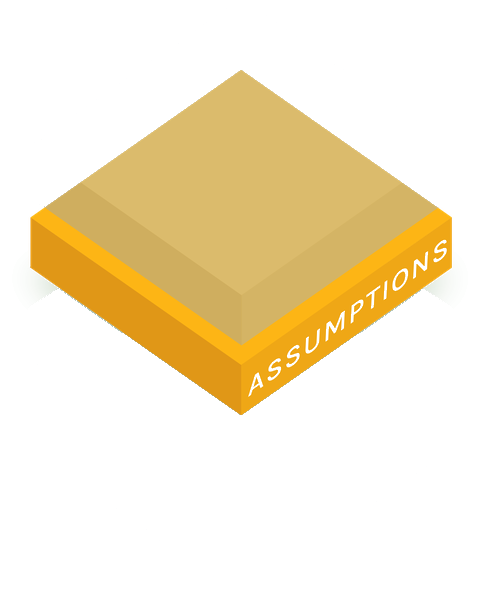
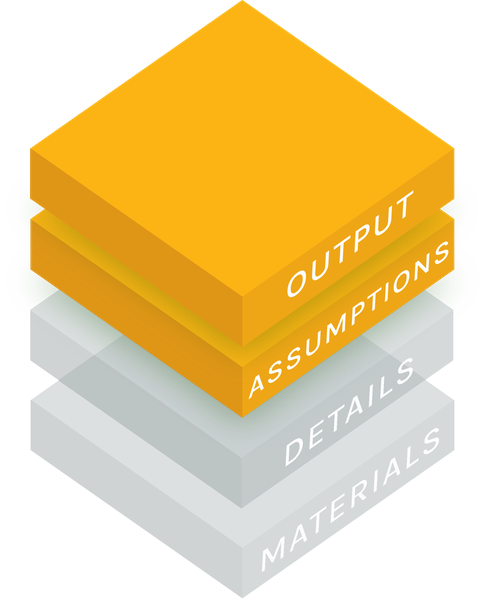
Landing page: use the real output+assumptions asset; deck: fix the overview link
The Explorer card's two-layer icon was a hand-composited overlay of two
full-stack images with their grey ghost layers masked out; replace it
with the user's own combined output+assumptions asset and drop the
now-unused intermediate PNGs.

The deck's persistent "overview" link was position:fixed at a flat
viewport offset, which put it in the letterboxing outside the slide's
own box whenever the window wasn't exactly the deck's aspect ratio.
remark.js scales every .remark-slide-scaler identically to fit the
viewport, so read that shared scaler's on-screen rect at load and on
resize, and offset from it instead, keeping the link inside the
visible slide regardless of window size.

Claude-Session: https://claude.ai/code/session_01BKvBiwNftrGxW1NxdeEXK1

diff --git a/slides/slides.html b/slides/slides.html
@@ -18,14 +18,17 @@
          "present" throughout: that counter isn't per-slide markup either, it's a single
          element remark repositions/relabels on each transition. A real <a> can't be done
          that way (remark owns that element), so this attaches one plain, position:fixed
-         link straight to <body>, outside every .remark-slide-container, which has the
-         same visual effect: it never moves as slides change because it was never part of
-         any slide to begin with. Colors match this deck's existing .nav-btn buttons. -->
+         link straight to <body>, outside every .remark-slide-container. It used to sit at
+         a fixed viewport offset (top:8px/left:10px), which put it in the grey letterboxing
+         outside the slide's own box whenever the browser window wasn't exactly the deck's
+         aspect ratio: remark scales every .remark-slide-scaler identically to fit the
+         current viewport (same transform on all 80 of them, since they share one ratio),
+         so this now reads that shared scaler's on-screen rect and offsets from IT instead,
+         landing the link inside the visible slide regardless of window size. Colors match
+         this deck's existing .nav-btn buttons. -->
     <style>
       .site-footer-link {
         position: fixed;
-        top: 8px;
-        left: 10px;
         z-index: 200;
         font-family: -apple-system, BlinkMacSystemFont, "Segoe UI", sans-serif;
         font-size: 11px;
@@ -44,6 +47,19 @@
       a.className = "site-footer-link";
       a.textContent = "← overview";
       document.body.appendChild(a);
+
+      function positionLink() {
+        var scaler = document.querySelector(".remark-slide-scaler");
+        if (!scaler) return;
+        var rect = scaler.getBoundingClientRect();
+        a.style.top = (rect.top + 8) + "px";
+        a.style.left = (rect.left + 10) + "px";
+      }
+      positionLink();
+      window.addEventListener("resize", positionLink);
+      if (window.slideshow && typeof window.slideshow.on === "function") {
+        window.slideshow.on("afterShowSlide", positionLink);
+      }
     });
     </script>
   </head>

diff --git a/slides/mathjax-config.html b/slides/mathjax-config.html
@@ -10,14 +10,17 @@ MathJax.Hub.Config({
      "present" throughout: that counter isn't per-slide markup either, it's a single
      element remark repositions/relabels on each transition. A real <a> can't be done
      that way (remark owns that element), so this attaches one plain, position:fixed
-     link straight to <body>, outside every .remark-slide-container, which has the
-     same visual effect: it never moves as slides change because it was never part of
-     any slide to begin with. Colors match this deck's existing .nav-btn buttons. -->
+     link straight to <body>, outside every .remark-slide-container. It used to sit at
+     a fixed viewport offset (top:8px/left:10px), which put it in the grey letterboxing
+     outside the slide's own box whenever the browser window wasn't exactly the deck's
+     aspect ratio: remark scales every .remark-slide-scaler identically to fit the
+     current viewport (same transform on all 80 of them, since they share one ratio),
+     so this now reads that shared scaler's on-screen rect and offsets from IT instead,
+     landing the link inside the visible slide regardless of window size. Colors match
+     this deck's existing .nav-btn buttons. -->
 <style>
   .site-footer-link {
     position: fixed;
-    top: 8px;
-    left: 10px;
     z-index: 200;
     font-family: -apple-system, BlinkMacSystemFont, "Segoe UI", sans-serif;
     font-size: 11px;
@@ -36,5 +39,18 @@ document.addEventListener("DOMContentLoaded", function () {
   a.className = "site-footer-link";
   a.textContent = "← overview";
   document.body.appendChild(a);
+
+  function positionLink() {
+    var scaler = document.querySelector(".remark-slide-scaler");
+    if (!scaler) return;
+    var rect = scaler.getBoundingClientRect();
+    a.style.top = (rect.top + 8) + "px";
+    a.style.left = (rect.left + 10) + "px";
+  }
+  positionLink();
+  window.addEventListener("resize", positionLink);
+  if (window.slideshow && typeof window.slideshow.on === "function") {
+    window.slideshow.on("afterShowSlide", positionLink);
+  }
 });
 </script>

diff --git a/index.html b/index.html
@@ -168,9 +168,8 @@
            (the new labor tasks that appear for each one automated) carried past the
            range the paper uses, and eleven outcome series recomputed as you move them.</p>
       </div>
-      <div class="card-icon-box stacked" aria-hidden="true">
+      <div class="card-icon-box" aria-hidden="true">
         <img src="assets/opa/opa-assumptions-solo.png" alt="">
-        <img src="assets/opa/opa-output-solo.png" alt="">
       </div>
     </div>
   </a>
